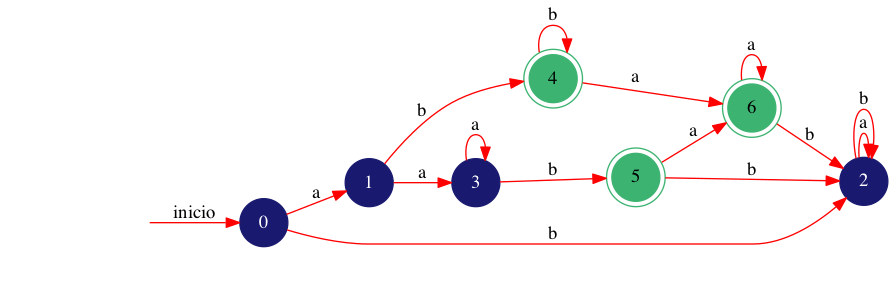
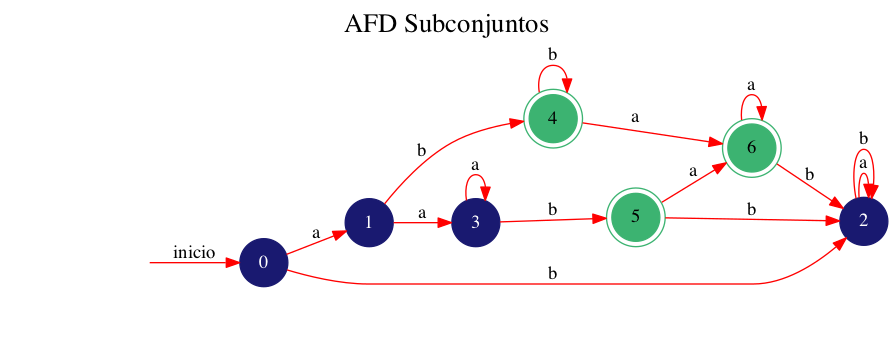
improvements

Changed region(s): [[0.1512, 0.03, 0.9978, 0.87], [0.8163, 0.15, 0.8466, 0.21], [0.514, 0.3, 0.5442, 0.33]]

diff --git a/src/thomson/AutomataMain.java b/src/thomson/AutomataMain.java
@@ -24,7 +24,10 @@ public class AutomataMain {
     public static void main(String[] args) {
         // TODO code application logic here
       
-
+        
+        
+       
+        
         String regex = JOptionPane.showInputDialog(
            null,
            "ingrese la expresión regular, el string epsilon es: " + EPSILON,
@@ -39,7 +42,7 @@ public class AutomataMain {
             
                
         
-       
+       String lenguaje = regex;
         Scanner teclado = new Scanner(System.in);
         RegexConverter convert = new RegexConverter();
         try{
@@ -71,6 +74,11 @@ public class AutomataMain {
         double afnSimulateStop = System.currentTimeMillis();
         System.out.println("Simulación AFN: " + (afnSimulateStop-afnSimulateStart) + " ms");
         
+        afn_result.addResultadoRegex(0, lenguaje);
+        afn_result.addResultadoRegex(1, cadena);
+        afn_result.addResultadoRegex(2, simulador.getResultado());
+        
+        
         //CREAr TXT y DOT
         crearArchivos(afn_result, (afnCreateStop-afnCreateStart), (afnSimulateStop-afnSimulateStart), "AFN");
         
@@ -95,6 +103,10 @@ public class AutomataMain {
         System.out.println("Simulación AFD: " + (afdSimulateStop-afdSimulateStart)+ " ms");
         System.out.println("");
         
+        afd_result.addResultadoRegex(0, lenguaje);
+        afd_result.addResultadoRegex(1, cadena);
+        afd_result.addResultadoRegex(2, simulador.getResultado());
+        
         crearArchivos(afd_result, (afdConvertStop-afdConvertStart), (afdSimulateStop-afdSimulateStart), "AFD Subconjuntos");
      
         //versión extendida para generar el árbol sintáctico
@@ -117,6 +129,10 @@ public class AutomataMain {
         simulador.simular(cadena,afd_directo);
         double afdDirectStopSim = System.currentTimeMillis();
         
+        afd_directo.addResultadoRegex(0, lenguaje);
+        afd_directo.addResultadoRegex(1, cadena);
+        afd_directo.addResultadoRegex(2, simulador.getResultado());
+        
        crearArchivos(afd_directo, (afdDirectStop-afdDirectStart),(afdDirectStopSim-afdDirectStartSim),"AFD Directo");
        
        
@@ -132,6 +148,10 @@ public class AutomataMain {
         simulador.simular(regex, afd_min);
         double minSimStop = System.currentTimeMillis();
         
+        afd_min.addResultadoRegex(0, lenguaje);
+        afd_min.addResultadoRegex(1, cadena);
+        afd_min.addResultadoRegex(2, simulador.getResultado());
+        
         crearArchivos(afd_min,(minTimeStop-minTimeStart),(minSimStop-minSimStart),"AFD Min Directo");
         
         
@@ -144,6 +164,10 @@ public class AutomataMain {
         minSimStart = System.currentTimeMillis();
         simulador.simular(regex, afd_min_sub);
         minSimStop = System.currentTimeMillis();
+        
+        afd_min_sub.addResultadoRegex(0, lenguaje);
+        afd_min_sub.addResultadoRegex(1, cadena);
+        afd_min_sub.addResultadoRegex(2, simulador.getResultado());
         
          crearArchivos(afd_min_sub,(minTimeStop-minTimeStart),(minSimStop-minSimStart),"AFD Min Subconjuntos");
         

diff --git a/src/thomson/Automata.java b/src/thomson/Automata.java
@@ -20,18 +20,24 @@ public class Automata {
     //en general deberia ser un arreglo de conjuntos finales
     //pero de acuerdo al algoritmo de thomson, siempre 
     //se mantiene un unico estado de aceptacion/final
-    private ArrayList<Estado> aceptacion = new ArrayList();
+    private final ArrayList<Estado> aceptacion;
     //array de estados
-    private ArrayList<Estado> estados = new ArrayList();
+    private final ArrayList<Estado> estados;
     // alfabeto del autómata, hash para no tener elementos repetidos
-    private HashSet alfabeto = new HashSet();
+    private HashSet alfabeto;
     //atributo para saber si es Determinista o No determinista
     private String tipo;
+    //atributo para saber el lenguaje r, la cadena w y el resultado de la simulacion
+    private String[] resultadoRegex;
      /**
      * Constructor vacio
      */
     public Automata()
     {
+        this.estados = new ArrayList();
+        this.aceptacion = new ArrayList();
+        this.alfabeto = new HashSet();
+        this.resultadoRegex = new String[3];
         
     }
     
@@ -119,6 +125,24 @@ public class Automata {
         return this.tipo;
     }
 
+    public Estado getInicial() {
+        return inicial;
+    }
+
+    public void setInicial(Estado inicial) {
+        this.inicial = inicial;
+    }
+
+    public String[] getResultadoRegex() {
+        return resultadoRegex;
+    }
+
+    public void addResultadoRegex(int key, String value) {
+        this.resultadoRegex[key] = value;
+    }
+    
+    
+
     @Override
     public String toString(){
         String res = new String();
@@ -132,6 +156,10 @@ public class Automata {
              Estado est = estados.get(i);
              res += est.getTransiciones()+"-";
         }
+        res += "\r\n";
+        res += "Lenguaje r: " +this.resultadoRegex[0] + "\r\n";
+        res += "Cadena w ingresada: "+this.resultadoRegex[1] + "\r\n";
+        res += "Resultado: "+ this.resultadoRegex[2] + "\r\n";
         
         
         return res;

diff --git a/src/thomson/Simulacion.java b/src/thomson/Simulacion.java
@@ -22,6 +22,8 @@ import java.util.Stack;
  */
 public class Simulacion {
     
+    private String resultado;
+    
     public Simulacion(){
         
     }
@@ -130,11 +132,21 @@ public class Simulacion {
                 resultado = true;
             }
         }
-        if (resultado)
+        if (resultado){
             System.out.println("Aceptado");
-        else
+            this.resultado = "Aceptado";
+        }
+        else{
             System.out.println("NO Aceptado");
+            this.resultado = "No Aceptado";
+        }
     }
+
+        public String getResultado() {
+            return resultado;
+        }
+    
+        
         /**
          * Método para crear el archivo DOT para después generar PNG
          * @param nombreArchivo
@@ -152,9 +164,8 @@ public class Simulacion {
         String texto = "digraph automata_finito {\n";
 
         texto +="\trankdir=LR;"+"\n";
-        int numero = 12;
-        numero +=(int)(automataFinito.getEstados().size()/(5));
-        texto +="\tsize=\""+numero+",5\""+"\n";
+        
+        texto += "\tgraph [label=\""+nombreArchivo+"\", labelloc=t, fontsize=20]; \n";
         texto +="\tnode [shape=doublecircle, style = filled,color = mediumseagreen];";
         //listar estados de aceptación
         for(int i=0;i<automataFinito.getEstadosAceptacion().size();i++){
@@ -164,7 +175,8 @@ public class Simulacion {
         texto+=";"+"\n";
         texto +="\tnode [shape=circle];"+"\n";
         texto +="\tnode [color=midnightblue,fontcolor=white];\n" +"	edge [color=red];"+"\n";
-        texto +="\t secret_node [style=invis];\n" + "	secret_node -> "+automataFinito.getEstadoInicial()+" [label=\"inicio\"];" + "\n";
+       
+        texto +="\tsecret_node [style=invis];\n" + "	secret_node -> "+automataFinito.getEstadoInicial()+" [label=\"inicio\"];" + "\n";
 	//transiciones
         for(int i=0;i<automataFinito.getEstados().size();i++){
             ArrayList<Transicion> t = automataFinito.getEstados().get(i).getTransiciones();

diff --git a/src/thomson/RegexConverter.java b/src/thomson/RegexConverter.java
@@ -279,6 +279,34 @@ public class RegexConverter {
 		return regexExplicit;
 	}
         
+        public String abreviacionOr(String regex){
+            String resultado = new String();
+                    
+            for (int i=0;i<regex.length();i++){
+                Character ch = regex.charAt(i);
+                if (ch =='['){
+                    int inicio = regex.charAt(i+1);
+                    int fin = regex.charAt(i+3);
+                    resultado +="(";
+                    for (int j = 0;j<=fin-inicio;j++){
+                        if (j==(fin-inicio))
+                            resultado+= Character.toString((char)(inicio+j));
+                        else
+                         resultado+= Character.toString((char)(inicio+j))+'|';
+                    }
+                    resultado +=")";
+                    i=i+4;
+                }
+                else{
+                    resultado+=ch;
+                }
+                
+            }
+            
+            return resultado;
+        }
+        
+        
         /**
 	 * Convertir una expresión regular de notación infix a postfix 
 	 * con el algoritmo de Shunting-yard. 
@@ -288,11 +316,11 @@ public class RegexConverter {
 	 */
 	public  String infixToPostfix(String regex) {
 		String postfix = new String();
-
+                regex = abreviacionOr(regex);
 		Stack<Character> stack = new Stack<>();
 
 		String formattedRegEx = formatRegEx(regex);
-
+                System.out.println(formattedRegEx);
 		for (Character c : formattedRegEx.toCharArray()) {
 			switch (c) {
 				case '(':

diff --git a/src/thomson/AFDConstructor.java b/src/thomson/AFDConstructor.java
@@ -394,8 +394,8 @@ public class AFDConstructor {
                 }
                 if (control){
                 //termina el merge
-                System.out.println(estadosCreados);
-                System.out.println(temporal);
+               // System.out.println(estadosCreados);
+                //System.out.println(temporal);
                 //si el resultado del merge no existe, se crea un nuevo estao
                 if (!estadosCreados.contains(temporal)){
 
@@ -411,7 +411,7 @@ public class AFDConstructor {
                    
                     //verificar si tiene el # que define el estado de aceptacion
                     for (Nodo temp: (ArrayList<Nodo>)temporal){
-                        if (temp.getId().equals("#"))
+                        if (temp.getId().equals("#")&&!afd_result.getEstadosAceptacion().contains(siguiente))
                             afd_result.addEstadosAceptacion(siguiente);
                     }
                 }
@@ -422,7 +422,7 @@ public class AFDConstructor {
                     estadoAnterior.setTransiciones(new Transicion(estadoAnterior,estadoSiguiente,letra));
                 }
                 }
-             System.out.println(afd_result);   
+           //  System.out.println(afd_result);   
             }
             indexEstadoInicio++;
             
